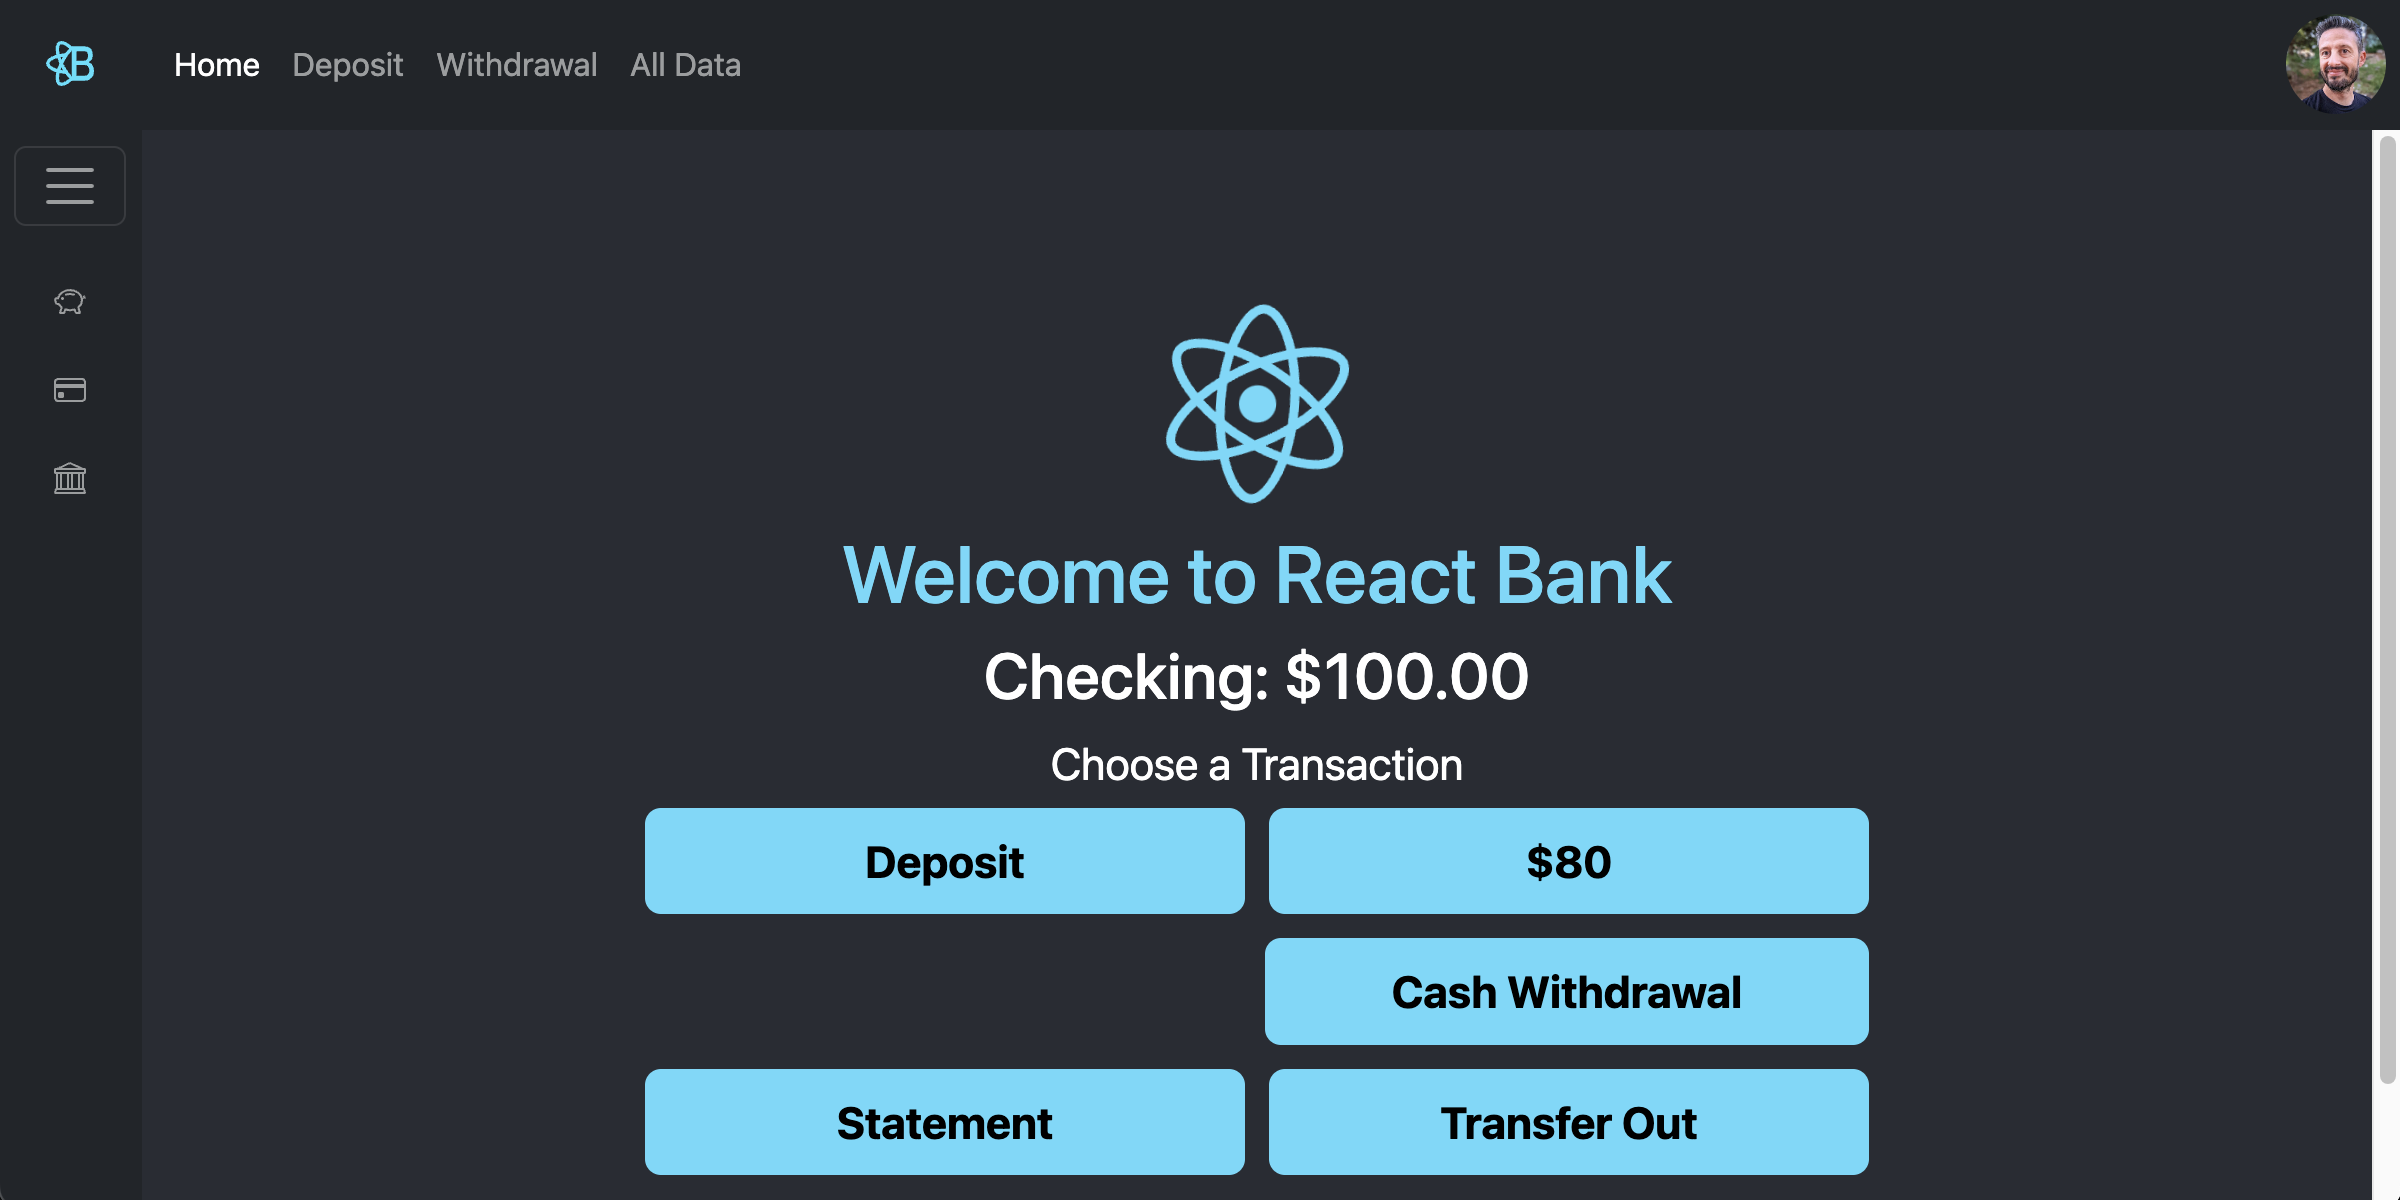
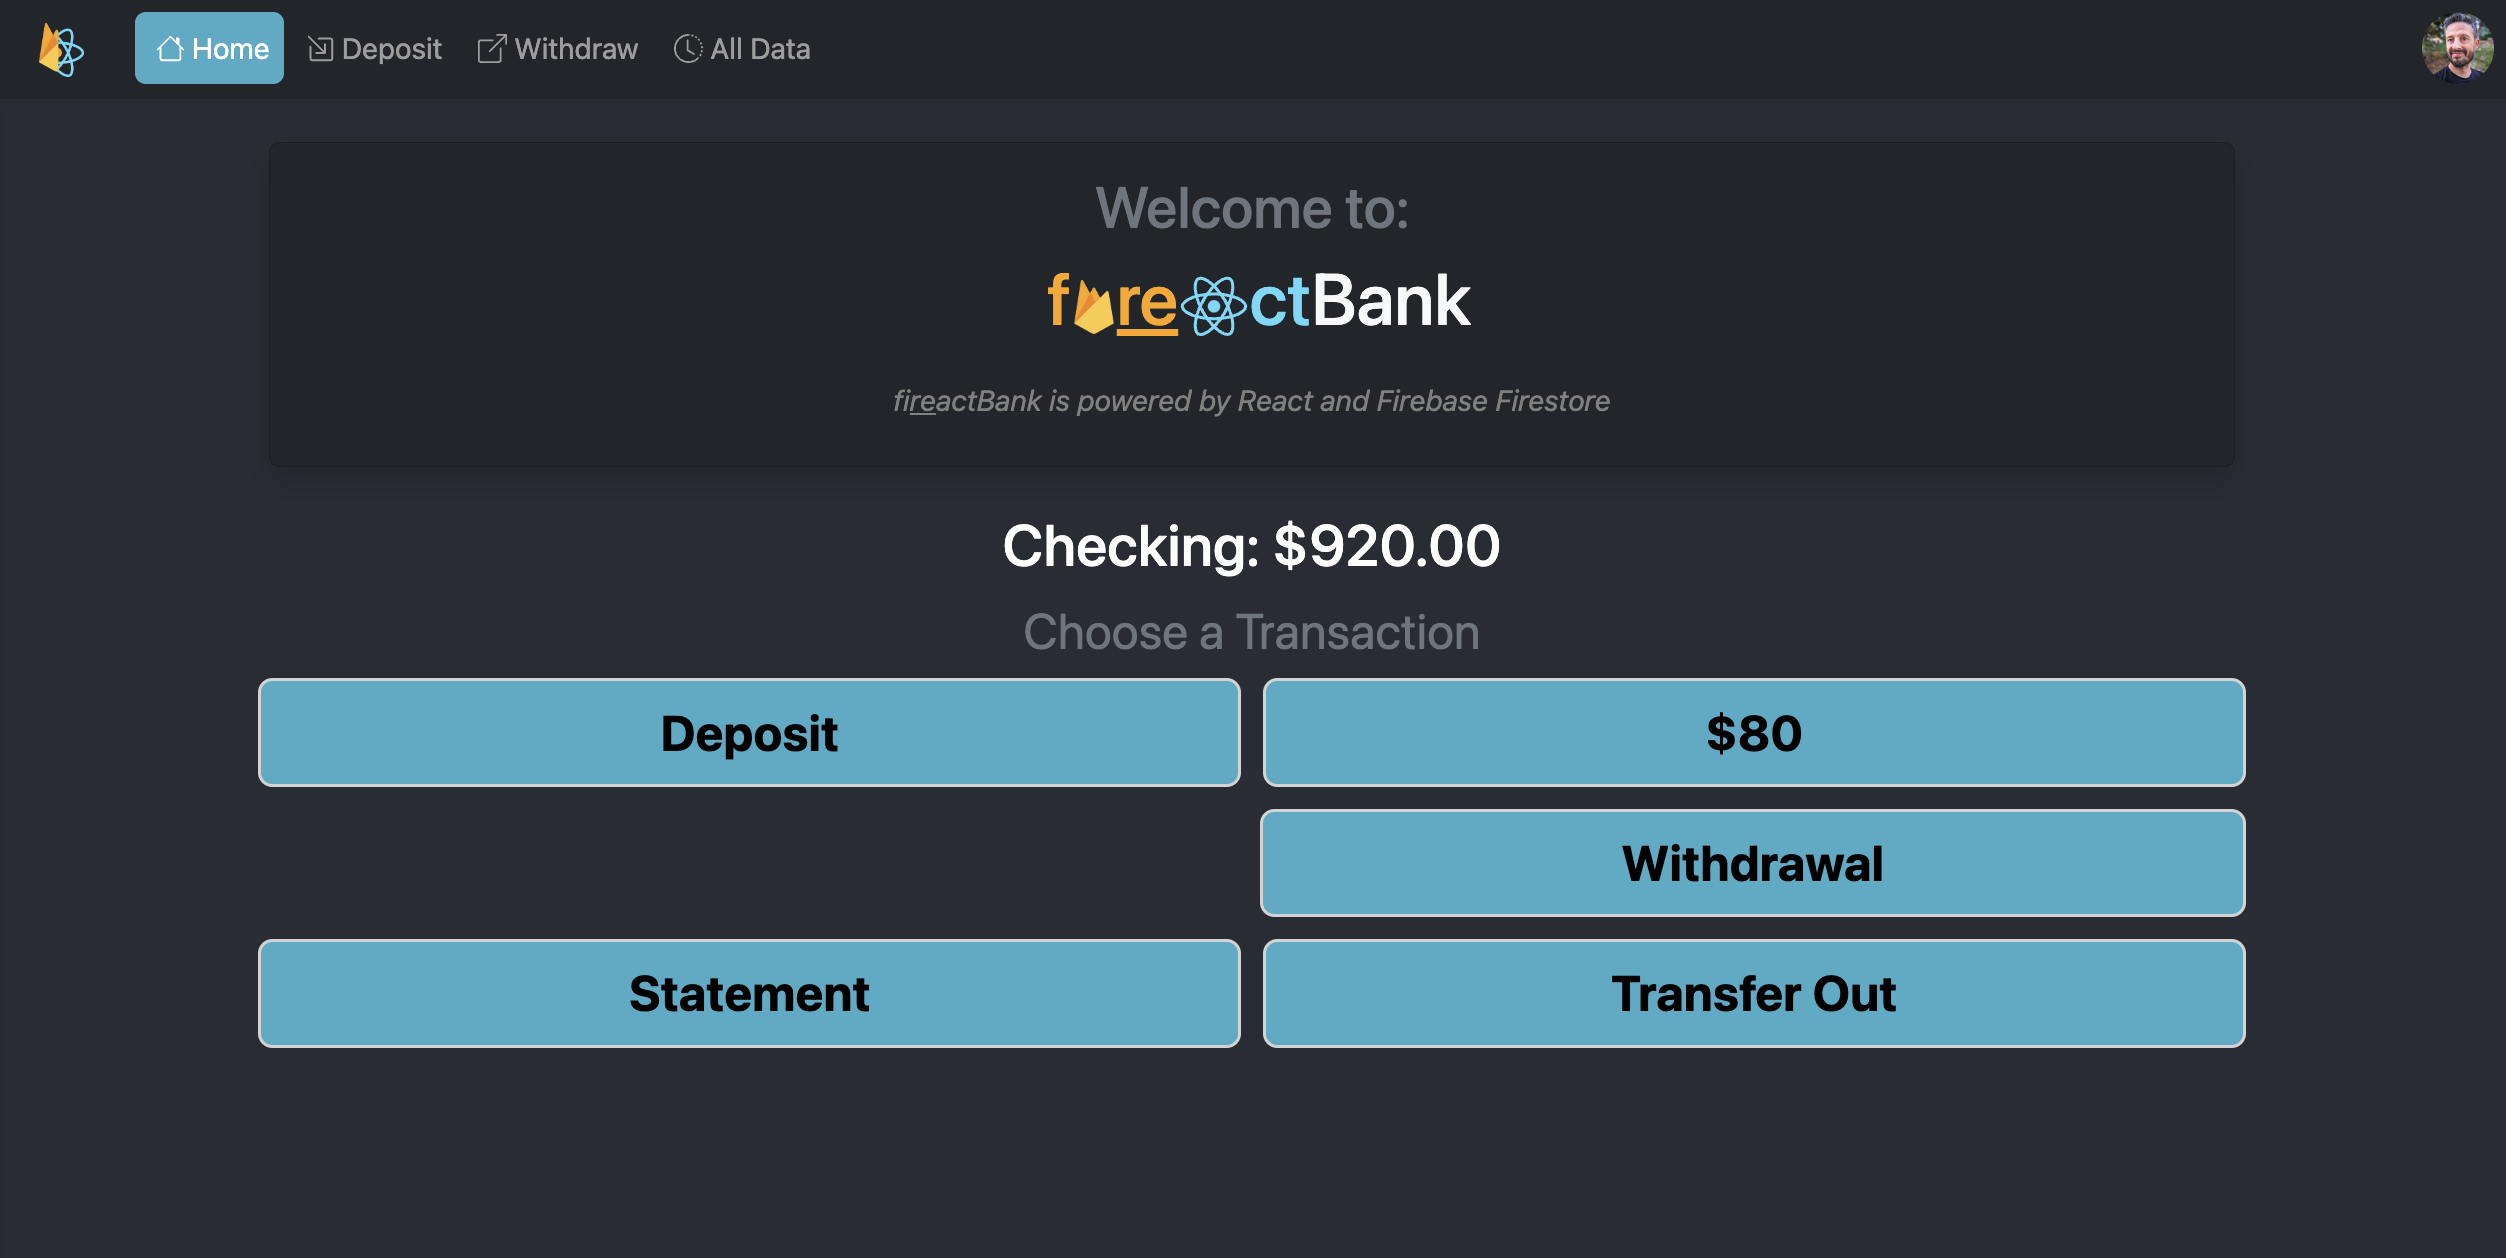
Updates

diff --git a/projects/MITxMERN-BankApp.md b/projects/MITxMERN-BankApp.md
@@ -1,0 +1,26 @@
+
+## Narrative:
+This project was part of the MITx Pro MERN Full Stack bootcamp. Our goal was to create a front-end for a banking application that could handle simple tasks such as deposit and withdrawals. The class offered started code, but I opted to build the app from scratch, so the software architecture and design here are my own. 
+
+## Scope:
+### Base Scope: Build a Banking App front end
+- Should have basic login functionality emulation
+   - no backend implementation, just username and password text validation
+- Banking functionality
+   - Deposit
+   - Withdrawal
+   - Statement (track all deposits and withdrawals)
+- UI Features
+   - Routing via Bootstrap navbar
+   - Toast pop-ups for confirmations and notifications
+   - Validation of withdrawals/deposits
+### Add-on scope (extra-credit)
+- Added Firebase backend:
+    - fully functional authentication
+    - storage of user/account data
+    - Google federated login
+- ATM-like UI
+- Unit tests in Jest for most critical features
+
+## Roles:
+- Student
